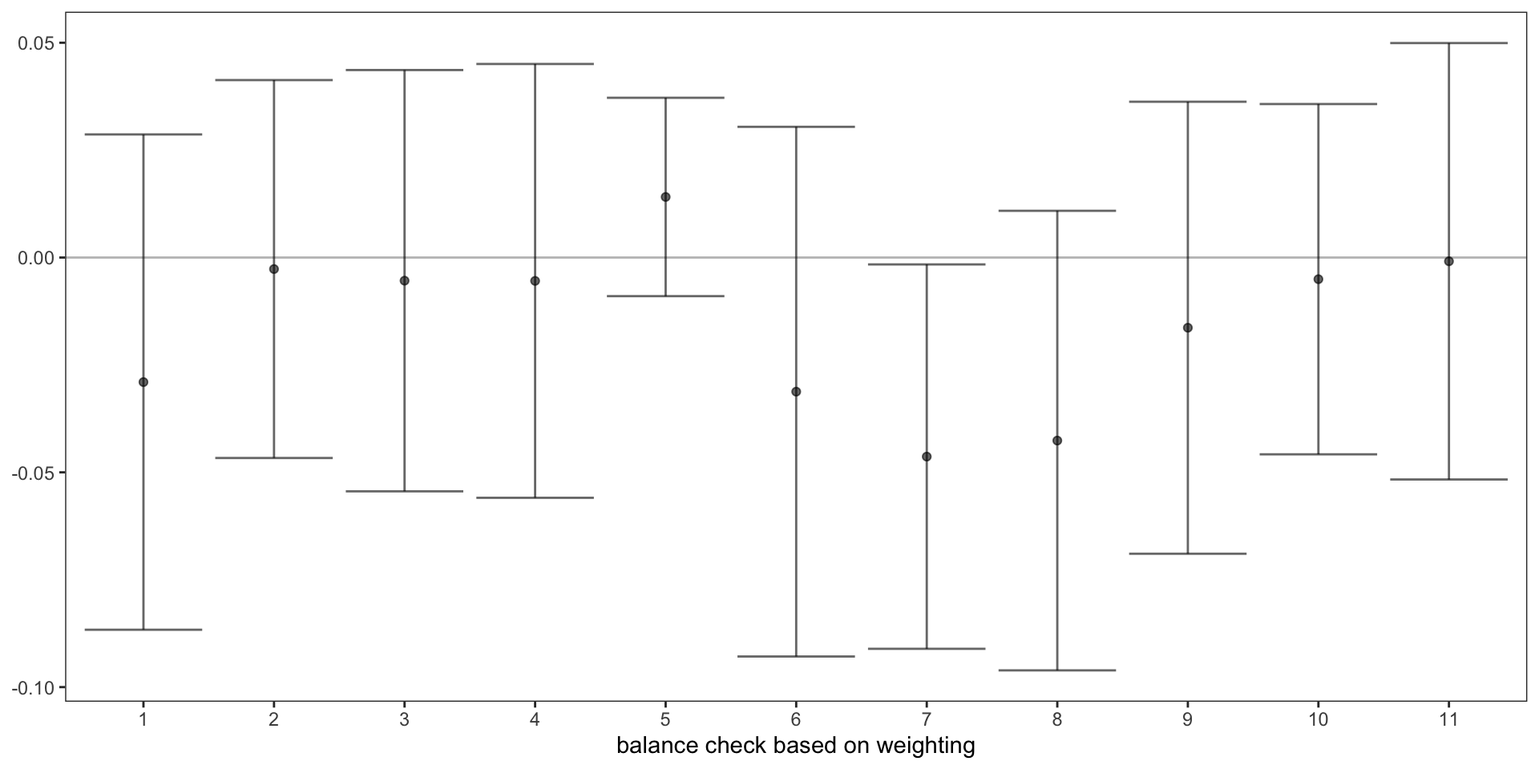
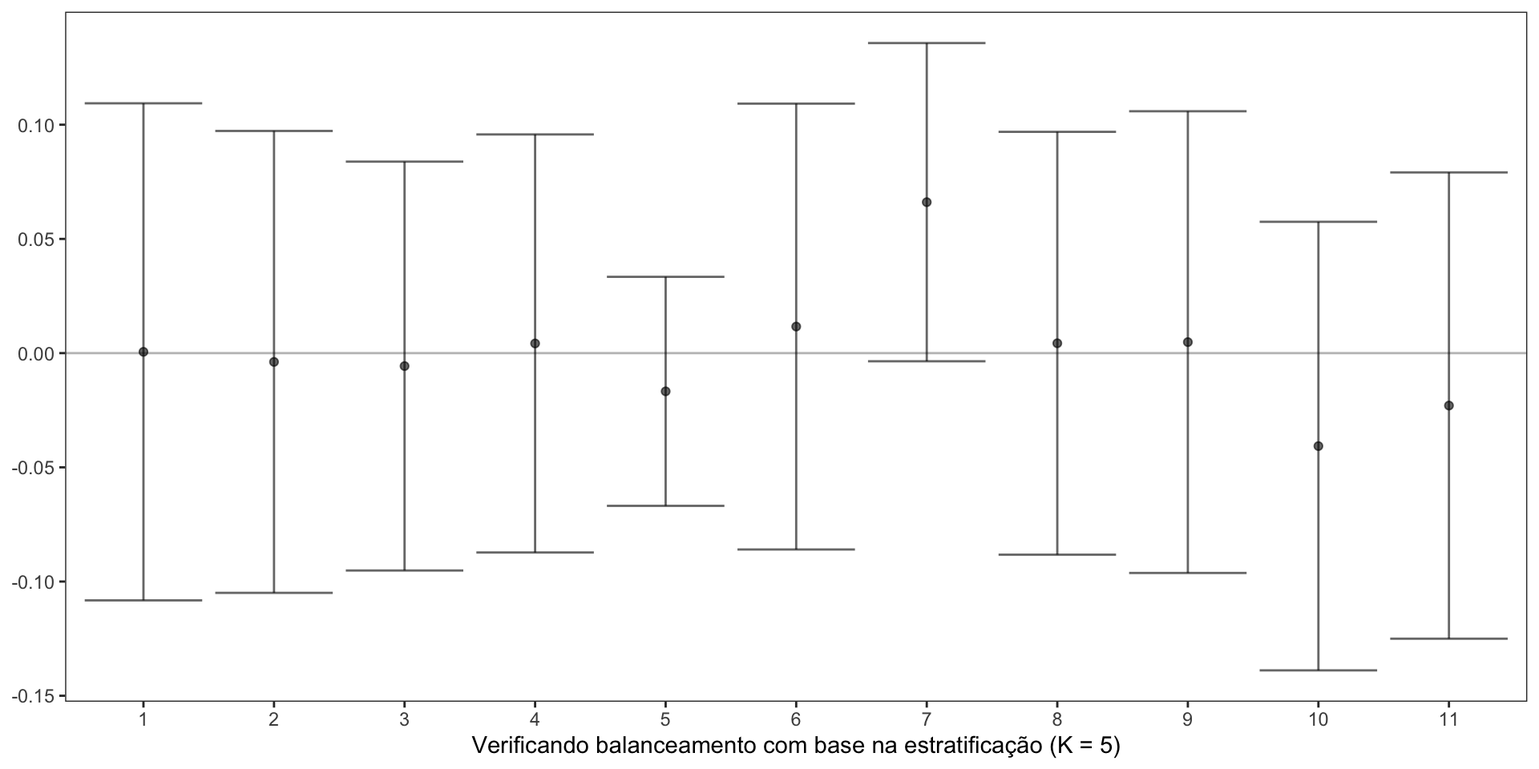
up

diff --git a/MI628_Aula09.html b/MI628_Aula09.html
@@ -425,7 +425,7 @@ Prof.&nbsp;Carlos Trucíos <br> ctrucios@unicamp.br
 <h2>Introdução</h2>
 <ul>
 <li class="fragment">Introduzido por Rosembaum e Rubin (1983), <em>propensity score</em> desempenha um papel crucial na inferência causal quando trabalhamos com estudos observacionais.</li>
-<li class="fragment"></li>
+<li class="fragment"><em>Propensity score</em> é uma ferramenta importante na inferência causal. O foco da aula de hoje está em entender o motivo pelo qual é tão importante.</li>
 </ul>
 </section></section>
 <section>
@@ -443,7 +443,10 @@ Prof.&nbsp;Carlos Trucíos <br> ctrucios@unicamp.br
 <li class="fragment"><span class="math inline">\(Y(0)\)</span>.</li>
 </ul>
 <div class="fragment">
-<p>Ademais, <span class="math display">\[P(X, Z, Y(1), Y(0)) = P(X) \times P(Y(1), Y(0) | X) \times P(Z | Y(1), Y(0), X)\]</span></p>
+<p>Ademais, <span class="math display">\[\begin{align}
+P(X, Z, Y(1), Y(0)) &amp;= P(Z, Y(1), Y(0) | X) \times P(X), \\
+                    &amp;= P(Z | X, Y(1), Y(0)) \times P(Y(1), Y(0) | X) \times P(X)
+\end{align}\]</span></p>
 </div>
 </section>
 <section id="propensity-score-2" class="slide level2">
@@ -462,10 +465,13 @@ Prof.&nbsp;Carlos Trucíos <br> ctrucios@unicamp.br
 </div>
 </div>
 <div class="fragment">
+<center>
+<span class="math inline">\(e(X)\)</span> apresenta uma série de propriedades que serão bastante úteis para inferirmos causalidade.
+</center>
 
 </div>
 <aside><div>
-<strong>Observação:</strong> alguns autores definem <em>propensity score</em> apenas como <span class="math inline">\(e(1) = P(Z = 1 | X)\)</span> seguindo a notação de Rosembaum e Rubin (1983). Essa notação é utilizada pois os autores focam em estudos observacionais. A definição <span class="math inline">\(e(X, Y(1), Y(0)) = P(Z = 1| X, Y(1), Y(0))\)</span> pode ser vista como uma generalização da definição de Rosembaum e Rubin (1983).
+<strong>Observação:</strong> alguns autores definem <em>propensity score</em> apenas como <span class="math inline">\(e(X) = P(Z = 1 | X)\)</span> seguindo a notação de Rosembaum e Rubin (1983). Essa notação é utilizada pois os autores focam em estudos observacionais sob ignorabilidade forte. A definição <span class="math inline">\(e(X, Y(1), Y(0)) = P(Z = 1| X, Y(1), Y(0))\)</span> é uma definição mais geral e em alguns casos pode ser de interesse.
 </div></aside></section></section>
 <section>
 <section id="propensity-score-redução-de-dimensão" class="title-slide slide level1 center">
@@ -504,21 +510,22 @@ Prof.&nbsp;Carlos Trucíos <br> ctrucios@unicamp.br
 <ul>
 <li class="fragment">Assuma que o <em>propensity score</em> é conhecido e com apenas <span class="math inline">\(K\)</span> (<span class="math inline">\(K &lt;&lt; n\)</span>) possíveis valores <span class="math inline">\(\{e_1, e_2, \cdots, e_K \}\)</span>.</li>
 <li class="fragment">Neste caso, o Teorema anterior pode ser re-escrito como <span class="math display">\[Z \perp\!\!\!\perp  \{ Y(1), Y(0)\} | e(X) = e_k \quad (k = 1, \cdots, K).\]</span></li>
-<li class="fragment">Assim, temos <span class="math inline">\(K\)</span> CRES independentes em cada estrato do <em>propensity score</em> e podemos analizar os dados observacionais da mesma forma como no SRE (mas agora estratificado em <span class="math inline">\(e(X)\)</span>) 😄</li>
+<li class="fragment">Assim, temos um <a href="https://ctruciosm.github.io/MI628-unicamp/MI628_Aula07#/popula%C3%A7%C3%A3o-finita-super-popula%C3%A7%C3%A3o-11">SRE</a>, o que implica em <span class="math inline">\(K\)</span> CRES independentes em cada estrato do <em>propensity score</em> e podemos analizar os dados observacionais da mesma forma como no SRE (mas agora estratificado em <span class="math inline">\(e(X)\)</span>) 😄</li>
 </ul>
 </div>
 </section>
 <section id="propensity-score-redução-de-dimensão-3" class="slide level2">
 <h2>Propensity Score: Redução de Dimensão</h2>
 <center>
-<span style="color:red">Na prática, <span class="math inline">\(e(X)\)</span> não é conhecido e não é discreto 🙍.</span>
+<span style="color:red">Na prática, <span class="math inline">\(e(X)\)</span> não é conhecido e não é discreto 😭.</span>
 </center>
 <div class="fragment">
-<h3 id="como-então-utilizar-propensity-score-para-estratificar">Como então utilizar propensity score para estratificar?</h3>
+<h3 id="e-agora">E agora?</h3>
 <ul>
 <li class="fragment">Ajustamos um modelo para <span class="math inline">\(P(Z = 1 | X)\)</span>, por exemplo, um modelo logístico.</li>
-<li class="fragment">Os valores ajustados serão os <em>propensity score</em> estimados, <span class="math inline">\(\hat{e}(X)\)</span>. -<span class="math inline">\(\hat{e}(X)\)</span> pode assumir tantos valores quanto o tamanho do conjunto de dados (<span class="math inline">\(n\)</span>) 😢.</li>
-<li class="fragment">Contudo, podemos discretizar (utilizando os quantis ou algum outro método) <span class="math inline">\(\hat{e}(X)\)</span> e termos (aproximadamente) <span class="math display">\[Z \perp\!\!\!\perp  \{ Y(1), Y(0)\} | \hat{e}'(X) = e_k \quad (k = 1, \cdots, K),\]</span> em que <span class="math inline">\(\hat{e}'(X)\)</span> são os quantis 😄.</li>
+<li class="fragment">Os valores ajustados serão os <em>propensity score</em> estimados, <span class="math inline">\(\hat{e}(X)\)</span>.</li>
+<li class="fragment"><span class="math inline">\(\hat{e}(X)\)</span> não precisa ser discreto (de fato pode assumir tanto valores quantas observações disponíveis) 😢.</li>
+<li class="fragment">Contudo, podemos discretizar (utilizando os quantis ou algum outro método) <span class="math inline">\(\hat{e}(X)\)</span> e termos (aproximadamente) <span class="math display">\[Z \perp\!\!\!\perp  \{ Y(1), Y(0)\} | \hat{e}'(X) = e_k \quad (k = 1, \cdots, K),\]</span> em que <span class="math inline">\(\hat{e}'(X)\)</span> são os valores discretizados 😄.</li>
 </ul>
 </div>
 </section>
@@ -527,7 +534,7 @@ Prof.&nbsp;Carlos Trucíos <br> ctrucios@unicamp.br
 <ul>
 <li class="fragment">Para obtermos <span class="math inline">\(\hat{e}(X)\)</span> precisamos ajustar um modelo, o que nos leva a pensar se o estimador final é dependente do modelo escolhido.</li>
 <li class="fragment">Note que a estratificação utilizando <em>propensity score</em> apenas precisa que a ordem esteja correta em lugar do que seus valores exatos.</li>
-<li class="fragment">Isto torna o método um pouco robusto à escolha do modelo.</li>
+<li class="fragment">Isto torna o método (um pouco) robusto à escolha do modelo.</li>
 </ul>
 </section>
 <section id="propensity-score-redução-de-dimensão-5" class="slide level2">
@@ -582,7 +589,7 @@ Prof.&nbsp;Carlos Trucíos <br> ctrucios@unicamp.br
 <div class="cell" data-layout-align="center">
 <details>
 <summary>Code</summary>
-<div class="sourceCode cell-code" id="cb2"><pre class="sourceCode numberSource r number-lines code-with-copy"><code class="sourceCode r"><span id="cb2-1"><a href="#cb2-1"></a>prop_score <span class="ot">&lt;-</span> <span class="fu">glm</span>(z <span class="sc">~</span> x, <span class="at">family =</span> binomial)<span class="sc">$</span>fitted.values </span></code><button title="Copy to Clipboard" class="code-copy-button"><i class="bi"></i></button></pre></div>
+<div class="sourceCode cell-code" id="cb2"><pre class="sourceCode numberSource r number-lines code-with-copy"><code class="sourceCode r"><span id="cb2-1"><a href="#cb2-1"></a>prop_score <span class="ot">&lt;-</span> <span class="fu">glm</span>(z <span class="sc">~</span> x, <span class="at">family =</span> binomial)<span class="sc">$</span>fitted.values</span></code><button title="Copy to Clipboard" class="code-copy-button"><i class="bi"></i></button></pre></div>
 </details>
 </div>
 </div>
@@ -663,6 +670,30 @@ SE    0.2254186 0.22673582  0.22587296</code></pre>
 <div class="fragment">
 <p>O estimador de Lin e o método de <em>propensity score stratification</em> fornecem, qualitativamente, os mesmo resultados. Já o estimador Naive difere bastante dos outros métodos (<strong>Why?</strong>) enquanto que Fisher devolve um efeito positivo, porém, insignificante.</p>
 </div>
+</section>
+<section id="propensity-score-redução-de-dimensão-9" class="slide level2">
+<h2>Propensity Score: Redução de Dimensão</h2>
+<div class="cell" data-layout-align="center">
+<details>
+<summary>Code</summary>
+<div class="sourceCode cell-code" id="cb7"><pre class="sourceCode numberSource r number-lines code-with-copy"><code class="sourceCode r"><span id="cb7-1"><a href="#cb7-1"></a>mahalanobis2 <span class="ot">=</span> <span class="cf">function</span>(z, x) {</span>
+<span id="cb7-2"><a href="#cb7-2"></a>  x1 <span class="ot">&lt;-</span> x[z <span class="sc">==</span> <span class="dv">1</span>, ]</span>
+<span id="cb7-3"><a href="#cb7-3"></a>  x0 <span class="ot">&lt;-</span> x[z <span class="sc">==</span> <span class="dv">0</span>, ]</span>
+<span id="cb7-4"><a href="#cb7-4"></a>  n1 <span class="ot">&lt;-</span> <span class="fu">nrow</span>(x1)</span>
+<span id="cb7-5"><a href="#cb7-5"></a>  n0 <span class="ot">&lt;-</span> <span class="fu">nrow</span>(x0)</span>
+<span id="cb7-6"><a href="#cb7-6"></a>  diff <span class="ot">&lt;-</span> <span class="fu">apply</span>(x1, <span class="dv">2</span>, mean) <span class="sc">-</span> <span class="fu">apply</span>(x0, <span class="dv">2</span>, mean)</span>
+<span id="cb7-7"><a href="#cb7-7"></a>  covar <span class="ot">&lt;-</span> (n1 <span class="sc">+</span> n0)<span class="sc">/</span>(n1 <span class="sc">*</span> n0) <span class="sc">*</span> <span class="fu">cov</span>(x)</span>
+<span id="cb7-8"><a href="#cb7-8"></a>  M <span class="ot">&lt;-</span> <span class="fu">t</span>(diff) <span class="sc">%*%</span> <span class="fu">solve</span>(covar) <span class="sc">%*%</span> diff</span>
+<span id="cb7-9"><a href="#cb7-9"></a>  <span class="fu">return</span>(M)</span>
+<span id="cb7-10"><a href="#cb7-10"></a>}</span>
+<span id="cb7-11"><a href="#cb7-11"></a><span class="fu">mahalanobis2</span>(z, x)</span></code><button title="Copy to Clipboard" class="code-copy-button"><i class="bi"></i></button></pre></div>
+</details>
+<div class="cell-output cell-output-stdout">
+<pre><code>         [,1]
+[1,] 619.0012</code></pre>
+</div>
+</div>
+<p>O (alto) nível de desbalanceameto explica o motivo pelo qual o método Naive difere tanto dos outros métodos.</p>
 </section></section>
 <section>
 <section id="propensity-score-ponderação" class="title-slide slide level1 center">
@@ -687,7 +718,7 @@ SE    0.2254186 0.22673582  0.22587296</code></pre>
 
 <p><strong>Demostração</strong> (no quadro)</p>
 <aside><div>
-A condição <span class="math inline">\(0 &lt; e(X) &lt; 1\)</span> é conhecida como a condição de sobreposição (<em>overlap</em>) ou positividade (<em>positivity</em>)
+A condição <span class="math inline">\(0 &lt; e(X) &lt; 1\)</span> é conhecida como a condição de sobreposição (<em>overlap</em>) ou positividade (<em>positivity</em>). Ela é necessária para o Teorema estar bem definido.
 </div></aside></section>
 <section id="estimador-ipw" class="slide level2">
 <h2>Estimador IPW</h2>
@@ -701,7 +732,7 @@ A condição <span class="math inline">\(0 &lt; e(X) &lt; 1\)</span> é conhecid
 <li class="fragment">Contudo, se adicionarmos, para cada <span class="math inline">\(i\)</span>, uma constante <span class="math inline">\(c\)</span>, temos que <span class="math inline">\(\hat{\tau}^{IPW}\)</span> torna-se <span class="math display">\[\hat{\tau}^{IPW} + c \Big[\dfrac{1}{n} \displaystyle \sum_{i = 1}^n \dfrac{Z_i}{\hat{e}(X_i)} - \dfrac{1}{n} \displaystyle \sum_{i = 1}^n \dfrac{1 - Z_i}{1 - \hat{e}(X_i)} \Big]\]</span></li>
 </ul>
 <div class="fragment">
-<p><span style="color:gray">O estimador <span class="math inline">\(\hat{\tau}^{IPW}\)</span> apresenta um sério problema: <strong>não é invariante a transformações de locação de <span class="math inline">\(Y\)</span></strong> 😢.</span></p>
+<p><span style="color:gray">O estimador <span class="math inline">\(\hat{\tau}^{IPW}\)</span> apresenta um sério problema: <strong>não é invariante a transformações de locação de <span class="math inline">\(Y\)</span></strong> 🙍.</span></p>
 </div>
 </section>
 <section id="estimador-ipw-2" class="slide level2">
@@ -716,7 +747,7 @@ A condição <span class="math inline">\(0 &lt; e(X) &lt; 1\)</span> é conhecid
 <h2>Estimador IPW</h2>
 <ul>
 <li class="fragment">Muitos resultados assintóticos requerem que <span class="math inline">\(0 &lt; \alpha_L &lt;e(X) &lt; \alpha_U &lt; 1\)</span> (condicação conhecida como sobreposição forte).</li>
-<li class="fragment">Contudo, esta suposição é bastante forte (D’Amour et al.&nbsp;2021) e mesmo se a condição é verificada para <span class="math inline">\(e(X)\)</span> não há garantia que seja verificada para <span class="math inline">\(\hat{e}(X)\)</span> fazendo com que o estimador <em>exploda</em>, tornando os resultados bastante instáveis.</li>
+<li class="fragment">Contudo, esta suposição é bastante forte (D’Amour et al.&nbsp;2021) e mesmo se a condição é verificada para <span class="math inline">\(e(X)\)</span> não há garantia que seja verificada para <span class="math inline">\(\hat{e}(X)\)</span> (o que permite que o estimador <em>exploda</em>, tornando os resultados bastante instáveis).</li>
 <li class="fragment">Para evitar isto, podemos: substituir <span class="math inline">\(\hat{e}(X)\)</span> por <span class="math inline">\(\max [\alpha_L, \min[\hat{e}(X_i), \alpha_U]]\)</span>.</li>
 <li class="fragment">Algumas escolhas comuns para <span class="math inline">\(\alpha_L\)</span> e <span class="math inline">\(\alpha_U\)</span> são 0.1 e 0.9 ou 0.05 e 0.95.</li>
 </ul>
@@ -735,16 +766,16 @@ A condição <span class="math inline">\(0 &lt; e(X) &lt; 1\)</span> é conhecid
 <div class="cell" data-layout-align="center">
 <details>
 <summary>Code</summary>
-<div class="sourceCode cell-code" id="cb7"><pre class="sourceCode numberSource r number-lines code-with-copy"><code class="sourceCode r"><span id="cb7-1"><a href="#cb7-1"></a>estimador_ipw <span class="ot">&lt;-</span> <span class="cf">function</span>(z, y, x, <span class="at">alphas =</span> <span class="fu">c</span>(<span class="dv">0</span>, <span class="dv">1</span>)) {</span>
-<span id="cb7-2"><a href="#cb7-2"></a>  prop_score <span class="ot">&lt;-</span> <span class="fu">glm</span>(z <span class="sc">~</span> x, <span class="at">family =</span> binomial)<span class="sc">$</span>fitted.values</span>
-<span id="cb7-3"><a href="#cb7-3"></a>  prop_score <span class="ot">&lt;-</span> <span class="fu">pmax</span>(alphas[<span class="dv">1</span>], <span class="fu">pmin</span>(prop_score, alphas[<span class="dv">2</span>]))</span>
-<span id="cb7-4"><a href="#cb7-4"></a>  </span>
-<span id="cb7-5"><a href="#cb7-5"></a>  tau_ipw <span class="ot">&lt;-</span> <span class="fu">mean</span>(z <span class="sc">*</span> y <span class="sc">/</span> prop_score) <span class="sc">-</span> <span class="fu">mean</span>((<span class="dv">1</span> <span class="sc">-</span> z) <span class="sc">*</span> y <span class="sc">/</span> (<span class="dv">1</span> <span class="sc">-</span> prop_score))</span>
-<span id="cb7-6"><a href="#cb7-6"></a>  tau_hajek <span class="ot">&lt;-</span> <span class="fu">mean</span>(z <span class="sc">*</span> y <span class="sc">/</span> prop_score) <span class="sc">/</span> <span class="fu">mean</span>(z <span class="sc">/</span> prop_score) <span class="sc">-</span> <span class="fu">mean</span>((<span class="dv">1</span> <span class="sc">-</span> z) <span class="sc">*</span> y <span class="sc">/</span> (<span class="dv">1</span> <span class="sc">-</span> prop_score)) <span class="sc">/</span> <span class="fu">mean</span>((<span class="dv">1</span> <span class="sc">-</span> z) <span class="sc">/</span> (<span class="dv">1</span> <span class="sc">-</span> prop_score))</span>
-<span id="cb7-7"><a href="#cb7-7"></a>  </span>
-<span id="cb7-8"><a href="#cb7-8"></a>  out <span class="ot">&lt;-</span> <span class="fu">c</span>(tau_ipw, tau_hajek)</span>
-<span id="cb7-9"><a href="#cb7-9"></a>  <span class="fu">return</span>(out)</span>
-<span id="cb7-10"><a href="#cb7-10"></a>}</span></code><button title="Copy to Clipboard" class="code-copy-button"><i class="bi"></i></button></pre></div>
+<div class="sourceCode cell-code" id="cb9"><pre class="sourceCode numberSource r number-lines code-with-copy"><code class="sourceCode r"><span id="cb9-1"><a href="#cb9-1"></a>estimador_ipw <span class="ot">&lt;-</span> <span class="cf">function</span>(z, y, x, <span class="at">alphas =</span> <span class="fu">c</span>(<span class="dv">0</span>, <span class="dv">1</span>)) {</span>
+<span id="cb9-2"><a href="#cb9-2"></a>  prop_score <span class="ot">&lt;-</span> <span class="fu">glm</span>(z <span class="sc">~</span> x, <span class="at">family =</span> binomial)<span class="sc">$</span>fitted.values</span>
+<span id="cb9-3"><a href="#cb9-3"></a>  prop_score <span class="ot">&lt;-</span> <span class="fu">pmax</span>(alphas[<span class="dv">1</span>], <span class="fu">pmin</span>(prop_score, alphas[<span class="dv">2</span>]))</span>
+<span id="cb9-4"><a href="#cb9-4"></a>  </span>
+<span id="cb9-5"><a href="#cb9-5"></a>  tau_ipw <span class="ot">&lt;-</span> <span class="fu">mean</span>(z <span class="sc">*</span> y <span class="sc">/</span> prop_score) <span class="sc">-</span> <span class="fu">mean</span>((<span class="dv">1</span> <span class="sc">-</span> z) <span class="sc">*</span> y <span class="sc">/</span> (<span class="dv">1</span> <span class="sc">-</span> prop_score))</span>
+<span id="cb9-6"><a href="#cb9-6"></a>  tau_hajek <span class="ot">&lt;-</span> <span class="fu">mean</span>(z <span class="sc">*</span> y <span class="sc">/</span> prop_score) <span class="sc">/</span> <span class="fu">mean</span>(z <span class="sc">/</span> prop_score) <span class="sc">-</span> <span class="fu">mean</span>((<span class="dv">1</span> <span class="sc">-</span> z) <span class="sc">*</span> y <span class="sc">/</span> (<span class="dv">1</span> <span class="sc">-</span> prop_score)) <span class="sc">/</span> <span class="fu">mean</span>((<span class="dv">1</span> <span class="sc">-</span> z) <span class="sc">/</span> (<span class="dv">1</span> <span class="sc">-</span> prop_score))</span>
+<span id="cb9-7"><a href="#cb9-7"></a>  </span>
+<span id="cb9-8"><a href="#cb9-8"></a>  out <span class="ot">&lt;-</span> <span class="fu">c</span>(tau_ipw, tau_hajek)</span>
+<span id="cb9-9"><a href="#cb9-9"></a>  <span class="fu">return</span>(out)</span>
+<span id="cb9-10"><a href="#cb9-10"></a>}</span></code><button title="Copy to Clipboard" class="code-copy-button"><i class="bi"></i></button></pre></div>
 </details>
 </div>
 </div>
@@ -765,20 +796,20 @@ A condição <span class="math inline">\(0 &lt; e(X) &lt; 1\)</span> é conhecid
 <div class="cell" data-layout-align="center">
 <details>
 <summary>Code</summary>
-<div class="sourceCode cell-code" id="cb8"><pre class="sourceCode numberSource r number-lines code-with-copy"><code class="sourceCode r"><span id="cb8-1"><a href="#cb8-1"></a>bootstrap_ipw <span class="ot">&lt;-</span> <span class="cf">function</span>(z, y, x, <span class="at">n_boot =</span> <span class="dv">500</span>, <span class="at">alphas =</span> <span class="fu">c</span>(<span class="dv">0</span>, <span class="dv">1</span>)) {</span>
-<span id="cb8-2"><a href="#cb8-2"></a>  poit_estim <span class="ot">&lt;-</span> <span class="fu">estimador_ipw</span>(z, y, x, alphas)</span>
-<span id="cb8-3"><a href="#cb8-3"></a>  </span>
-<span id="cb8-4"><a href="#cb8-4"></a>  n <span class="ot">&lt;-</span> <span class="fu">length</span>(z)</span>
-<span id="cb8-5"><a href="#cb8-5"></a>  boot_estim <span class="ot">&lt;-</span> <span class="fu">replicate</span>(n_boot, {</span>
-<span id="cb8-6"><a href="#cb8-6"></a>    sample_boot <span class="ot">&lt;-</span> <span class="fu">sample</span>(<span class="dv">1</span><span class="sc">:</span>n, n, <span class="at">replace =</span> <span class="cn">TRUE</span>)</span>
-<span id="cb8-7"><a href="#cb8-7"></a>    <span class="fu">estimador_ipw</span>(z[sample_boot], y[sample_boot], x[sample_boot, ], alphas)</span>
-<span id="cb8-8"><a href="#cb8-8"></a>  })</span>
-<span id="cb8-9"><a href="#cb8-9"></a>  boot_se <span class="ot">&lt;-</span> <span class="fu">apply</span>(boot_estim, <span class="dv">1</span>, sd)</span>
-<span id="cb8-10"><a href="#cb8-10"></a>  out <span class="ot">&lt;-</span> <span class="fu">cbind</span>(poit_estim, boot_se)</span>
-<span id="cb8-11"><a href="#cb8-11"></a>  <span class="fu">colnames</span>(out) <span class="ot">&lt;-</span> <span class="fu">c</span>(<span class="st">"Est"</span>, <span class="st">"SD"</span>)</span>
-<span id="cb8-12"><a href="#cb8-12"></a>  <span class="fu">rownames</span>(out) <span class="ot">&lt;-</span> <span class="fu">c</span>(<span class="st">"IPW"</span>, <span class="st">"Hajek"</span>)</span>
-<span id="cb8-13"><a href="#cb8-13"></a>  <span class="fu">return</span>(out)</span>
-<span id="cb8-14"><a href="#cb8-14"></a>}</span></code><button title="Copy to Clipboard" class="code-copy-button"><i class="bi"></i></button></pre></div>
+<div class="sourceCode cell-code" id="cb10"><pre class="sourceCode numberSource r number-lines code-with-copy"><code class="sourceCode r"><span id="cb10-1"><a href="#cb10-1"></a>bootstrap_ipw <span class="ot">&lt;-</span> <span class="cf">function</span>(z, y, x, <span class="at">n_boot =</span> <span class="dv">500</span>, <span class="at">alphas =</span> <span class="fu">c</span>(<span class="dv">0</span>, <span class="dv">1</span>)) {</span>
+<span id="cb10-2"><a href="#cb10-2"></a>  poit_estim <span class="ot">&lt;-</span> <span class="fu">estimador_ipw</span>(z, y, x, alphas)</span>
+<span id="cb10-3"><a href="#cb10-3"></a>  </span>
+<span id="cb10-4"><a href="#cb10-4"></a>  n <span class="ot">&lt;-</span> <span class="fu">length</span>(z)</span>
+<span id="cb10-5"><a href="#cb10-5"></a>  boot_estim <span class="ot">&lt;-</span> <span class="fu">replicate</span>(n_boot, {</span>
+<span id="cb10-6"><a href="#cb10-6"></a>    sample_boot <span class="ot">&lt;-</span> <span class="fu">sample</span>(<span class="dv">1</span><span class="sc">:</span>n, n, <span class="at">replace =</span> <span class="cn">TRUE</span>)</span>
+<span id="cb10-7"><a href="#cb10-7"></a>    <span class="fu">estimador_ipw</span>(z[sample_boot], y[sample_boot], x[sample_boot, ], alphas)</span>
+<span id="cb10-8"><a href="#cb10-8"></a>  })</span>
+<span id="cb10-9"><a href="#cb10-9"></a>  boot_se <span class="ot">&lt;-</span> <span class="fu">apply</span>(boot_estim, <span class="dv">1</span>, sd)</span>
+<span id="cb10-10"><a href="#cb10-10"></a>  out <span class="ot">&lt;-</span> <span class="fu">cbind</span>(poit_estim, boot_se)</span>
+<span id="cb10-11"><a href="#cb10-11"></a>  <span class="fu">colnames</span>(out) <span class="ot">&lt;-</span> <span class="fu">c</span>(<span class="st">"Est"</span>, <span class="st">"SD"</span>)</span>
+<span id="cb10-12"><a href="#cb10-12"></a>  <span class="fu">rownames</span>(out) <span class="ot">&lt;-</span> <span class="fu">c</span>(<span class="st">"IPW"</span>, <span class="st">"Hajek"</span>)</span>
+<span id="cb10-13"><a href="#cb10-13"></a>  <span class="fu">return</span>(out)</span>
+<span id="cb10-14"><a href="#cb10-14"></a>}</span></code><button title="Copy to Clipboard" class="code-copy-button"><i class="bi"></i></button></pre></div>
 </details>
 </div>
 </div>
@@ -800,17 +831,24 @@ A condição <span class="math inline">\(0 &lt; e(X) &lt; 1\)</span> é conhecid
 <div class="cell" data-layout-align="center">
 <details>
 <summary>Code</summary>
-<div class="sourceCode cell-code" id="cb9"><pre class="sourceCode numberSource r number-lines code-with-copy"><code class="sourceCode r"><span id="cb9-1"><a href="#cb9-1"></a>dados <span class="ot">&lt;-</span> <span class="fu">read.csv</span>(<span class="st">"datasets/nhanes_bmi.csv"</span>)[, <span class="sc">-</span><span class="dv">1</span>]</span>
-<span id="cb9-2"><a href="#cb9-2"></a>z <span class="ot">&lt;-</span> dados<span class="sc">$</span>School_meal</span>
-<span id="cb9-3"><a href="#cb9-3"></a>y <span class="ot">&lt;-</span> dados<span class="sc">$</span>BMI</span>
-<span id="cb9-4"><a href="#cb9-4"></a>x <span class="ot">&lt;-</span> <span class="fu">scale</span>(dados[, <span class="sc">-</span><span class="fu">c</span>(<span class="dv">1</span>, <span class="dv">2</span>)])</span></code><button title="Copy to Clipboard" class="code-copy-button"><i class="bi"></i></button></pre></div>
+<div class="sourceCode cell-code" id="cb11"><pre class="sourceCode numberSource r number-lines code-with-copy"><code class="sourceCode r"><span id="cb11-1"><a href="#cb11-1"></a>dados <span class="ot">&lt;-</span> <span class="fu">read.csv</span>(<span class="st">"datasets/nhanes_bmi.csv"</span>)[, <span class="sc">-</span><span class="dv">1</span>]</span>
+<span id="cb11-2"><a href="#cb11-2"></a>z <span class="ot">&lt;-</span> dados<span class="sc">$</span>School_meal</span>
+<span id="cb11-3"><a href="#cb11-3"></a>y <span class="ot">&lt;-</span> dados<span class="sc">$</span>BMI</span>
+<span id="cb11-4"><a href="#cb11-4"></a>x <span class="ot">&lt;-</span> <span class="fu">scale</span>(dados[, <span class="sc">-</span><span class="fu">c</span>(<span class="dv">1</span>, <span class="dv">2</span>)])</span></code><button title="Copy to Clipboard" class="code-copy-button"><i class="bi"></i></button></pre></div>
 </details>
 </div>
-<p>A maneira de exemplo, utilizaremos diversos valores de <span class="math inline">\(\alpha_L\)</span> e <span class="math inline">\(\alpha_U\)</span>: ::: {.non-incremenral} - (0, 1) - (0.01, 0.99) - (0.05, 0.95) - (0.1, 0.9)</p>
+<p>A maneira de exemplo, utilizaremos diversos valores de <span class="math inline">\(\alpha_L\)</span> e <span class="math inline">\(\alpha_U\)</span>:</p>
+<div class="nonincremenral">
+<ul>
+<li class="fragment">(0, 1)</li>
+<li class="fragment">(0.01, 0.99)</li>
+<li class="fragment">(0.05, 0.95)</li>
+<li class="fragment">(0.1, 0.9)</li>
+</ul>
 </div>
 </div>
 </div>
-<p>:::</p>
+</div>
 </section>
 <section id="estimador-ipw-7" class="slide level2">
 <h2>Estimador IPW</h2>
@@ -824,26 +862,35 @@ A condição <span class="math inline">\(0 &lt; e(X) &lt; 1\)</span> é conhecid
 </div>
 <div class="callout-content">
 <div class="cell" data-layout-align="center">
+<details>
+<summary>Code</summary>
+<div class="sourceCode cell-code" id="cb12"><pre class="sourceCode numberSource r number-lines code-with-copy"><code class="sourceCode r"><span id="cb12-1"><a href="#cb12-1"></a>l_alphas <span class="ot">&lt;-</span> <span class="fu">list</span>(<span class="at">alpha_01 =</span> <span class="fu">c</span>(<span class="dv">0</span>, <span class="dv">1</span>), <span class="at">alpha_02 =</span> <span class="fu">c</span>(<span class="fl">0.01</span>, <span class="fl">0.99</span>),</span>
+<span id="cb12-2"><a href="#cb12-2"></a>               <span class="at">alpha_03 =</span> <span class="fu">c</span>(<span class="fl">0.05</span>, <span class="fl">0.95</span>), <span class="at">alpha_04 =</span> <span class="fu">c</span>(<span class="fl">0.1</span>, .<span class="dv">9</span>))</span>
+<span id="cb12-3"><a href="#cb12-3"></a></span>
+<span id="cb12-4"><a href="#cb12-4"></a>trim_estim <span class="ot">&lt;-</span> <span class="fu">lapply</span>(l_alphas, </span>
+<span id="cb12-5"><a href="#cb12-5"></a>                     <span class="cf">function</span>(a) {<span class="fu">round</span>(<span class="fu">bootstrap_ipw</span>(z, y, x, <span class="at">alphas =</span> a), <span class="dv">3</span>)} )</span>
+<span id="cb12-6"><a href="#cb12-6"></a>trim_estim</span></code><button title="Copy to Clipboard" class="code-copy-button"><i class="bi"></i></button></pre></div>
+</details>
 <div class="cell-output cell-output-stdout">
 <pre><code>$alpha_01
          Est    SD
-IPW   -1.516 0.500
-Hajek -0.156 0.254
+IPW   -1.516 0.481
+Hajek -0.156 0.242
 
 $alpha_02
-         Est   SD
-IPW   -1.516 0.50
-Hajek -0.156 0.24
+         Est    SD
+IPW   -1.516 0.487
+Hajek -0.156 0.239
 
 $alpha_03
          Est    SD
-IPW   -1.499 0.479
-Hajek -0.152 0.236
+IPW   -1.499 0.460
+Hajek -0.152 0.244
 
 $alpha_04
          Est    SD
-IPW   -0.713 0.418
-Hajek -0.054 0.235</code></pre>
+IPW   -0.713 0.411
+Hajek -0.054 0.231</code></pre>
 </div>
 </div>
 </div>
@@ -871,7 +918,7 @@ Hajek -0.054 0.235</code></pre>
 <p><strong>Teorema</strong></p>
 </div>
 <div class="callout-content">
-<p>O <em>propensity score</em> satisfaz <span class="math display">\[Z \perp\!\!\!\perp Z \ e(X).\]</span> Ademais, para qualquer função <span class="math inline">\(h(\cdot)\)</span>, temos que <span class="math display">\[\mathbb{E} \Big [\dfrac{Zh(X)}{e(X)} \Big] = \mathbb{E} \Big[\dfrac{(1 - Z) h(X)}{1- e(X)} \Big],\]</span> desde que ambas as <span class="math inline">\(\mathbb{E}(\cdot)\)</span> existam.</p>
+<p>O <em>propensity score</em> satisfaz <span class="math display">\[Z \perp\!\!\!\perp X | e(X).\]</span> Ademais, para qualquer função <span class="math inline">\(h(\cdot)\)</span>, temos que <span class="math display">\[\mathbb{E} \Big [\dfrac{Zh(X)}{e(X)} \Big] = \mathbb{E} \Big[\dfrac{(1 - Z) h(X)}{1- e(X)} \Big],\]</span> desde que ambas as <span class="math inline">\(\mathbb{E}(\cdot)\)</span> existam.</p>
 </div>
 </div>
 </div>
@@ -881,7 +928,7 @@ Hajek -0.054 0.235</code></pre>
 </center>
 <ul>
 <li class="fragment">Condicional no <em>propensity score</em>, a indicadora de tratamento e as covariáveis são independentes.</li>
-<li class="fragment">Dentro de cada nível do <em>propensity score</em>, a distribuição das covariáveis é balanceada entre tratamento e controle.</li>
+<li class="fragment">Portanto, dentro de cada nível do <em>propensity score</em>, a distribuição das covariáveis é balanceada entre tratamento e controle.</li>
 </ul>
 </div>
 </section>
@@ -898,58 +945,58 @@ Hajek -0.054 0.235</code></pre>
 <div class="cell" data-layout-align="center">
 <details>
 <summary>Code</summary>
-<div class="sourceCode cell-code" id="cb11"><pre class="sourceCode numberSource r number-lines code-with-copy"><code class="sourceCode r"><span id="cb11-1"><a href="#cb11-1"></a><span class="fu">library</span>(ggplot2)</span>
-<span id="cb11-2"><a href="#cb11-2"></a>balance_check <span class="ot">&lt;-</span> <span class="fu">sapply</span>(<span class="dv">1</span><span class="sc">:</span><span class="fu">ncol</span>(x),</span>
-<span id="cb11-3"><a href="#cb11-3"></a>                <span class="at">FUN =</span> <span class="cf">function</span>(px){</span>
-<span id="cb11-4"><a href="#cb11-4"></a>                  q_prop_score <span class="ot">=</span> <span class="fu">quantile</span>(prop_score, (<span class="dv">1</span><span class="sc">:</span><span class="dv">4</span>)<span class="sc">/</span><span class="dv">5</span>)</span>
-<span id="cb11-5"><a href="#cb11-5"></a>                  prop_score_strata <span class="ot">=</span> <span class="fu">cut</span>(prop_score, <span class="at">breaks =</span> <span class="fu">c</span>(<span class="dv">0</span>, q_prop_score, <span class="dv">1</span>), <span class="at">labels =</span> <span class="dv">1</span><span class="sc">:</span><span class="dv">5</span>)</span>
-<span id="cb11-6"><a href="#cb11-6"></a>                  <span class="fu">neyman_sre</span>(x[, px], z, prop_score_strata)</span>
-<span id="cb11-7"><a href="#cb11-7"></a>                })</span>
-<span id="cb11-8"><a href="#cb11-8"></a></span>
-<span id="cb11-9"><a href="#cb11-9"></a>dat_balance <span class="ot">&lt;-</span> <span class="fu">data.frame</span>(<span class="at">est =</span> balance_check[<span class="dv">1</span>, ],</span>
-<span id="cb11-10"><a href="#cb11-10"></a>                         <span class="at">upper =</span> balance_check[<span class="dv">1</span>, ] <span class="sc">+</span> <span class="fl">1.96</span><span class="sc">*</span>balance_check[<span class="dv">2</span>, ],</span>
-<span id="cb11-11"><a href="#cb11-11"></a>                         <span class="at">lower =</span> balance_check[<span class="dv">1</span>, ] <span class="sc">-</span> <span class="fl">1.96</span><span class="sc">*</span>balance_check[<span class="dv">2</span>, ],</span>
-<span id="cb11-12"><a href="#cb11-12"></a>                         <span class="at">cov =</span> <span class="fu">factor</span>(<span class="dv">1</span><span class="sc">:</span><span class="dv">11</span>))</span>
-<span id="cb11-13"><a href="#cb11-13"></a><span class="fu">ggplot</span>(dat_balance) <span class="sc">+</span> </span>
-<span id="cb11-14"><a href="#cb11-14"></a>  <span class="fu">geom_errorbar</span>(<span class="fu">aes</span>(<span class="at">x =</span> cov, <span class="at">ymin =</span> lower, <span class="at">ymax =</span> upper), <span class="at">alpha =</span> <span class="fl">0.6</span>) <span class="sc">+</span> </span>
-<span id="cb11-15"><a href="#cb11-15"></a>  <span class="fu">geom_point</span>(<span class="fu">aes</span>(<span class="at">x =</span> cov, <span class="at">y =</span> est), <span class="at">alpha =</span> <span class="fl">0.6</span>) <span class="sc">+</span></span>
-<span id="cb11-16"><a href="#cb11-16"></a>  <span class="fu">geom_hline</span>(<span class="fu">aes</span>(<span class="at">yintercept =</span> <span class="dv">0</span>), <span class="at">alpha =</span> <span class="fl">0.3</span>) <span class="sc">+</span> </span>
-<span id="cb11-17"><a href="#cb11-17"></a>  <span class="fu">theme_bw</span>() <span class="sc">+</span> </span>
-<span id="cb11-18"><a href="#cb11-18"></a>  <span class="fu">theme</span>(<span class="at">panel.grid.major =</span> <span class="fu">element_blank</span>(),</span>
-<span id="cb11-19"><a href="#cb11-19"></a>        <span class="at">panel.grid.minor =</span> <span class="fu">element_blank</span>(),</span>
-<span id="cb11-20"><a href="#cb11-20"></a>        <span class="at">axis.title.y =</span> <span class="fu">element_blank</span>()) <span class="sc">+</span></span>
-<span id="cb11-21"><a href="#cb11-21"></a>  <span class="fu">xlab</span>(<span class="st">"Verificando balanceamento com base na estratificação (K = 5)"</span>)                     </span></code><button title="Copy to Clipboard" class="code-copy-button"><i class="bi"></i></button></pre></div>
+<div class="sourceCode cell-code" id="cb14"><pre class="sourceCode numberSource r number-lines code-with-copy"><code class="sourceCode r"><span id="cb14-1"><a href="#cb14-1"></a><span class="fu">library</span>(ggplot2)</span>
+<span id="cb14-2"><a href="#cb14-2"></a>balance_check <span class="ot">&lt;-</span> <span class="fu">sapply</span>(<span class="dv">1</span><span class="sc">:</span><span class="fu">ncol</span>(x),</span>
+<span id="cb14-3"><a href="#cb14-3"></a>                <span class="at">FUN =</span> <span class="cf">function</span>(px){</span>
+<span id="cb14-4"><a href="#cb14-4"></a>                  q_prop_score <span class="ot">=</span> <span class="fu">quantile</span>(prop_score, (<span class="dv">1</span><span class="sc">:</span><span class="dv">4</span>)<span class="sc">/</span><span class="dv">5</span>)</span>
+<span id="cb14-5"><a href="#cb14-5"></a>                  prop_score_strata <span class="ot">=</span> <span class="fu">cut</span>(prop_score, <span class="at">breaks =</span> <span class="fu">c</span>(<span class="dv">0</span>, q_prop_score, <span class="dv">1</span>), <span class="at">labels =</span> <span class="dv">1</span><span class="sc">:</span><span class="dv">5</span>)</span>
+<span id="cb14-6"><a href="#cb14-6"></a>                  <span class="fu">neyman_sre</span>(x[, px], z, prop_score_strata)</span>
+<span id="cb14-7"><a href="#cb14-7"></a>                })</span>
+<span id="cb14-8"><a href="#cb14-8"></a></span>
+<span id="cb14-9"><a href="#cb14-9"></a>dat_balance <span class="ot">&lt;-</span> <span class="fu">data.frame</span>(<span class="at">est =</span> balance_check[<span class="dv">1</span>, ],</span>
+<span id="cb14-10"><a href="#cb14-10"></a>                         <span class="at">upper =</span> balance_check[<span class="dv">1</span>, ] <span class="sc">+</span> <span class="fl">1.96</span><span class="sc">*</span>balance_check[<span class="dv">2</span>, ],</span>
+<span id="cb14-11"><a href="#cb14-11"></a>                         <span class="at">lower =</span> balance_check[<span class="dv">1</span>, ] <span class="sc">-</span> <span class="fl">1.96</span><span class="sc">*</span>balance_check[<span class="dv">2</span>, ],</span>
+<span id="cb14-12"><a href="#cb14-12"></a>                         <span class="at">cov =</span> <span class="fu">factor</span>(<span class="dv">1</span><span class="sc">:</span><span class="dv">11</span>))</span>
+<span id="cb14-13"><a href="#cb14-13"></a><span class="fu">ggplot</span>(dat_balance) <span class="sc">+</span> </span>
+<span id="cb14-14"><a href="#cb14-14"></a>  <span class="fu">geom_errorbar</span>(<span class="fu">aes</span>(<span class="at">x =</span> cov, <span class="at">ymin =</span> lower, <span class="at">ymax =</span> upper), <span class="at">alpha =</span> <span class="fl">0.6</span>) <span class="sc">+</span> </span>
+<span id="cb14-15"><a href="#cb14-15"></a>  <span class="fu">geom_point</span>(<span class="fu">aes</span>(<span class="at">x =</span> cov, <span class="at">y =</span> est), <span class="at">alpha =</span> <span class="fl">0.6</span>) <span class="sc">+</span></span>
+<span id="cb14-16"><a href="#cb14-16"></a>  <span class="fu">geom_hline</span>(<span class="fu">aes</span>(<span class="at">yintercept =</span> <span class="dv">0</span>), <span class="at">alpha =</span> <span class="fl">0.3</span>) <span class="sc">+</span> </span>
+<span id="cb14-17"><a href="#cb14-17"></a>  <span class="fu">theme_bw</span>() <span class="sc">+</span> </span>
+<span id="cb14-18"><a href="#cb14-18"></a>  <span class="fu">theme</span>(<span class="at">panel.grid.major =</span> <span class="fu">element_blank</span>(),</span>
+<span id="cb14-19"><a href="#cb14-19"></a>        <span class="at">panel.grid.minor =</span> <span class="fu">element_blank</span>(),</span>
+<span id="cb14-20"><a href="#cb14-20"></a>        <span class="at">axis.title.y =</span> <span class="fu">element_blank</span>()) <span class="sc">+</span></span>
+<span id="cb14-21"><a href="#cb14-21"></a>  <span class="fu">xlab</span>(<span class="st">"Verificando balanceamento com base na estratificação (K = 5)"</span>)                     </span></code><button title="Copy to Clipboard" class="code-copy-button"><i class="bi"></i></button></pre></div>
 </details>
 
 </div>
-<img data-src="MI628_Aula09_files/figure-revealjs/unnamed-chunk-9-1.png" width="960" class="r-stretch quarto-figure-center"></section>
+<img data-src="MI628_Aula09_files/figure-revealjs/unnamed-chunk-10-1.png" width="960" class="r-stretch quarto-figure-center"></section>
 <section id="propensity-score-balanceamento-4" class="slide level2">
 <h2>Propensity Score: Balanceamento</h2>
 <div class="cell" data-layout-align="center">
 <details>
 <summary>Code</summary>
-<div class="sourceCode cell-code" id="cb12"><pre class="sourceCode numberSource r number-lines code-with-copy"><code class="sourceCode r"><span id="cb12-1"><a href="#cb12-1"></a>balance_check <span class="ot">&lt;-</span> <span class="fu">sapply</span>(<span class="dv">1</span><span class="sc">:</span><span class="fu">dim</span>(x)[<span class="dv">2</span>],</span>
-<span id="cb12-2"><a href="#cb12-2"></a>                <span class="at">FUN =</span> <span class="cf">function</span>(px){</span>
-<span id="cb12-3"><a href="#cb12-3"></a>                  <span class="fu">bootstrap_ipw</span>(z, x[, px], x)[<span class="dv">2</span>, ]</span>
-<span id="cb12-4"><a href="#cb12-4"></a>                })</span>
-<span id="cb12-5"><a href="#cb12-5"></a></span>
-<span id="cb12-6"><a href="#cb12-6"></a>dat_balance <span class="ot">&lt;-</span> <span class="fu">data.frame</span>(<span class="at">est =</span> balance_check[<span class="dv">1</span>, ],</span>
-<span id="cb12-7"><a href="#cb12-7"></a>                         <span class="at">upper =</span> balance_check[<span class="dv">1</span>, ] <span class="sc">+</span> <span class="fl">1.96</span><span class="sc">*</span>balance_check[<span class="dv">2</span>, ],</span>
-<span id="cb12-8"><a href="#cb12-8"></a>                         <span class="at">lower =</span> balance_check[<span class="dv">1</span>, ] <span class="sc">-</span> <span class="fl">1.96</span><span class="sc">*</span>balance_check[<span class="dv">2</span>, ],</span>
-<span id="cb12-9"><a href="#cb12-9"></a>                         <span class="at">cov =</span> <span class="fu">factor</span>(<span class="dv">1</span><span class="sc">:</span><span class="dv">11</span>))</span>
-<span id="cb12-10"><a href="#cb12-10"></a><span class="fu">ggplot</span>(dat_balance) <span class="sc">+</span> </span>
-<span id="cb12-11"><a href="#cb12-11"></a>  <span class="fu">geom_errorbar</span>(<span class="fu">aes</span>(<span class="at">x =</span> cov, <span class="at">ymin =</span> lower, <span class="at">ymax =</span> upper), <span class="at">alpha =</span> <span class="fl">0.6</span>) <span class="sc">+</span> </span>
-<span id="cb12-12"><a href="#cb12-12"></a>  <span class="fu">geom_point</span>(<span class="fu">aes</span>(<span class="at">x =</span> cov, <span class="at">y =</span> est), <span class="at">alpha =</span> <span class="fl">0.6</span>) <span class="sc">+</span></span>
-<span id="cb12-13"><a href="#cb12-13"></a>  <span class="fu">geom_hline</span>(<span class="fu">aes</span>(<span class="at">yintercept =</span> <span class="dv">0</span>), <span class="at">alpha =</span> <span class="fl">0.3</span>) <span class="sc">+</span> </span>
-<span id="cb12-14"><a href="#cb12-14"></a>  <span class="fu">theme_bw</span>() <span class="sc">+</span> </span>
-<span id="cb12-15"><a href="#cb12-15"></a>  <span class="fu">theme</span>(<span class="at">panel.grid.major =</span> <span class="fu">element_blank</span>(),</span>
-<span id="cb12-16"><a href="#cb12-16"></a>        <span class="at">panel.grid.minor =</span> <span class="fu">element_blank</span>(),</span>
-<span id="cb12-17"><a href="#cb12-17"></a>        <span class="at">axis.title.y=</span><span class="fu">element_blank</span>()) <span class="sc">+</span></span>
-<span id="cb12-18"><a href="#cb12-18"></a>  <span class="fu">xlab</span>(<span class="st">"balance check based on weighting"</span>)</span></code><button title="Copy to Clipboard" class="code-copy-button"><i class="bi"></i></button></pre></div>
+<div class="sourceCode cell-code" id="cb15"><pre class="sourceCode numberSource r number-lines code-with-copy"><code class="sourceCode r"><span id="cb15-1"><a href="#cb15-1"></a>balance_check <span class="ot">&lt;-</span> <span class="fu">sapply</span>(<span class="dv">1</span><span class="sc">:</span><span class="fu">dim</span>(x)[<span class="dv">2</span>],</span>
+<span id="cb15-2"><a href="#cb15-2"></a>                <span class="at">FUN =</span> <span class="cf">function</span>(px){</span>
+<span id="cb15-3"><a href="#cb15-3"></a>                  <span class="fu">bootstrap_ipw</span>(z, x[, px], x)[<span class="dv">2</span>, ]</span>
+<span id="cb15-4"><a href="#cb15-4"></a>                })</span>
+<span id="cb15-5"><a href="#cb15-5"></a></span>
+<span id="cb15-6"><a href="#cb15-6"></a>dat_balance <span class="ot">&lt;-</span> <span class="fu">data.frame</span>(<span class="at">est =</span> balance_check[<span class="dv">1</span>, ],</span>
+<span id="cb15-7"><a href="#cb15-7"></a>                         <span class="at">upper =</span> balance_check[<span class="dv">1</span>, ] <span class="sc">+</span> <span class="fl">1.96</span><span class="sc">*</span>balance_check[<span class="dv">2</span>, ],</span>
+<span id="cb15-8"><a href="#cb15-8"></a>                         <span class="at">lower =</span> balance_check[<span class="dv">1</span>, ] <span class="sc">-</span> <span class="fl">1.96</span><span class="sc">*</span>balance_check[<span class="dv">2</span>, ],</span>
+<span id="cb15-9"><a href="#cb15-9"></a>                         <span class="at">cov =</span> <span class="fu">factor</span>(<span class="dv">1</span><span class="sc">:</span><span class="dv">11</span>))</span>
+<span id="cb15-10"><a href="#cb15-10"></a><span class="fu">ggplot</span>(dat_balance) <span class="sc">+</span> </span>
+<span id="cb15-11"><a href="#cb15-11"></a>  <span class="fu">geom_errorbar</span>(<span class="fu">aes</span>(<span class="at">x =</span> cov, <span class="at">ymin =</span> lower, <span class="at">ymax =</span> upper), <span class="at">alpha =</span> <span class="fl">0.6</span>) <span class="sc">+</span> </span>
+<span id="cb15-12"><a href="#cb15-12"></a>  <span class="fu">geom_point</span>(<span class="fu">aes</span>(<span class="at">x =</span> cov, <span class="at">y =</span> est), <span class="at">alpha =</span> <span class="fl">0.6</span>) <span class="sc">+</span></span>
+<span id="cb15-13"><a href="#cb15-13"></a>  <span class="fu">geom_hline</span>(<span class="fu">aes</span>(<span class="at">yintercept =</span> <span class="dv">0</span>), <span class="at">alpha =</span> <span class="fl">0.3</span>) <span class="sc">+</span> </span>
+<span id="cb15-14"><a href="#cb15-14"></a>  <span class="fu">theme_bw</span>() <span class="sc">+</span> </span>
+<span id="cb15-15"><a href="#cb15-15"></a>  <span class="fu">theme</span>(<span class="at">panel.grid.major =</span> <span class="fu">element_blank</span>(),</span>
+<span id="cb15-16"><a href="#cb15-16"></a>        <span class="at">panel.grid.minor =</span> <span class="fu">element_blank</span>(),</span>
+<span id="cb15-17"><a href="#cb15-17"></a>        <span class="at">axis.title.y=</span><span class="fu">element_blank</span>()) <span class="sc">+</span></span>
+<span id="cb15-18"><a href="#cb15-18"></a>  <span class="fu">xlab</span>(<span class="st">"balance check based on weighting"</span>)</span></code><button title="Copy to Clipboard" class="code-copy-button"><i class="bi"></i></button></pre></div>
 </details>
 
 </div>
-<img data-src="MI628_Aula09_files/figure-revealjs/unnamed-chunk-10-1.png" width="960" class="r-stretch quarto-figure-center"></section>
+<img data-src="MI628_Aula09_files/figure-revealjs/unnamed-chunk-11-1.png" width="960" class="r-stretch quarto-figure-center"></section>
 <section id="referências" class="slide level2">
 <h2>Referências</h2>
 <div>
